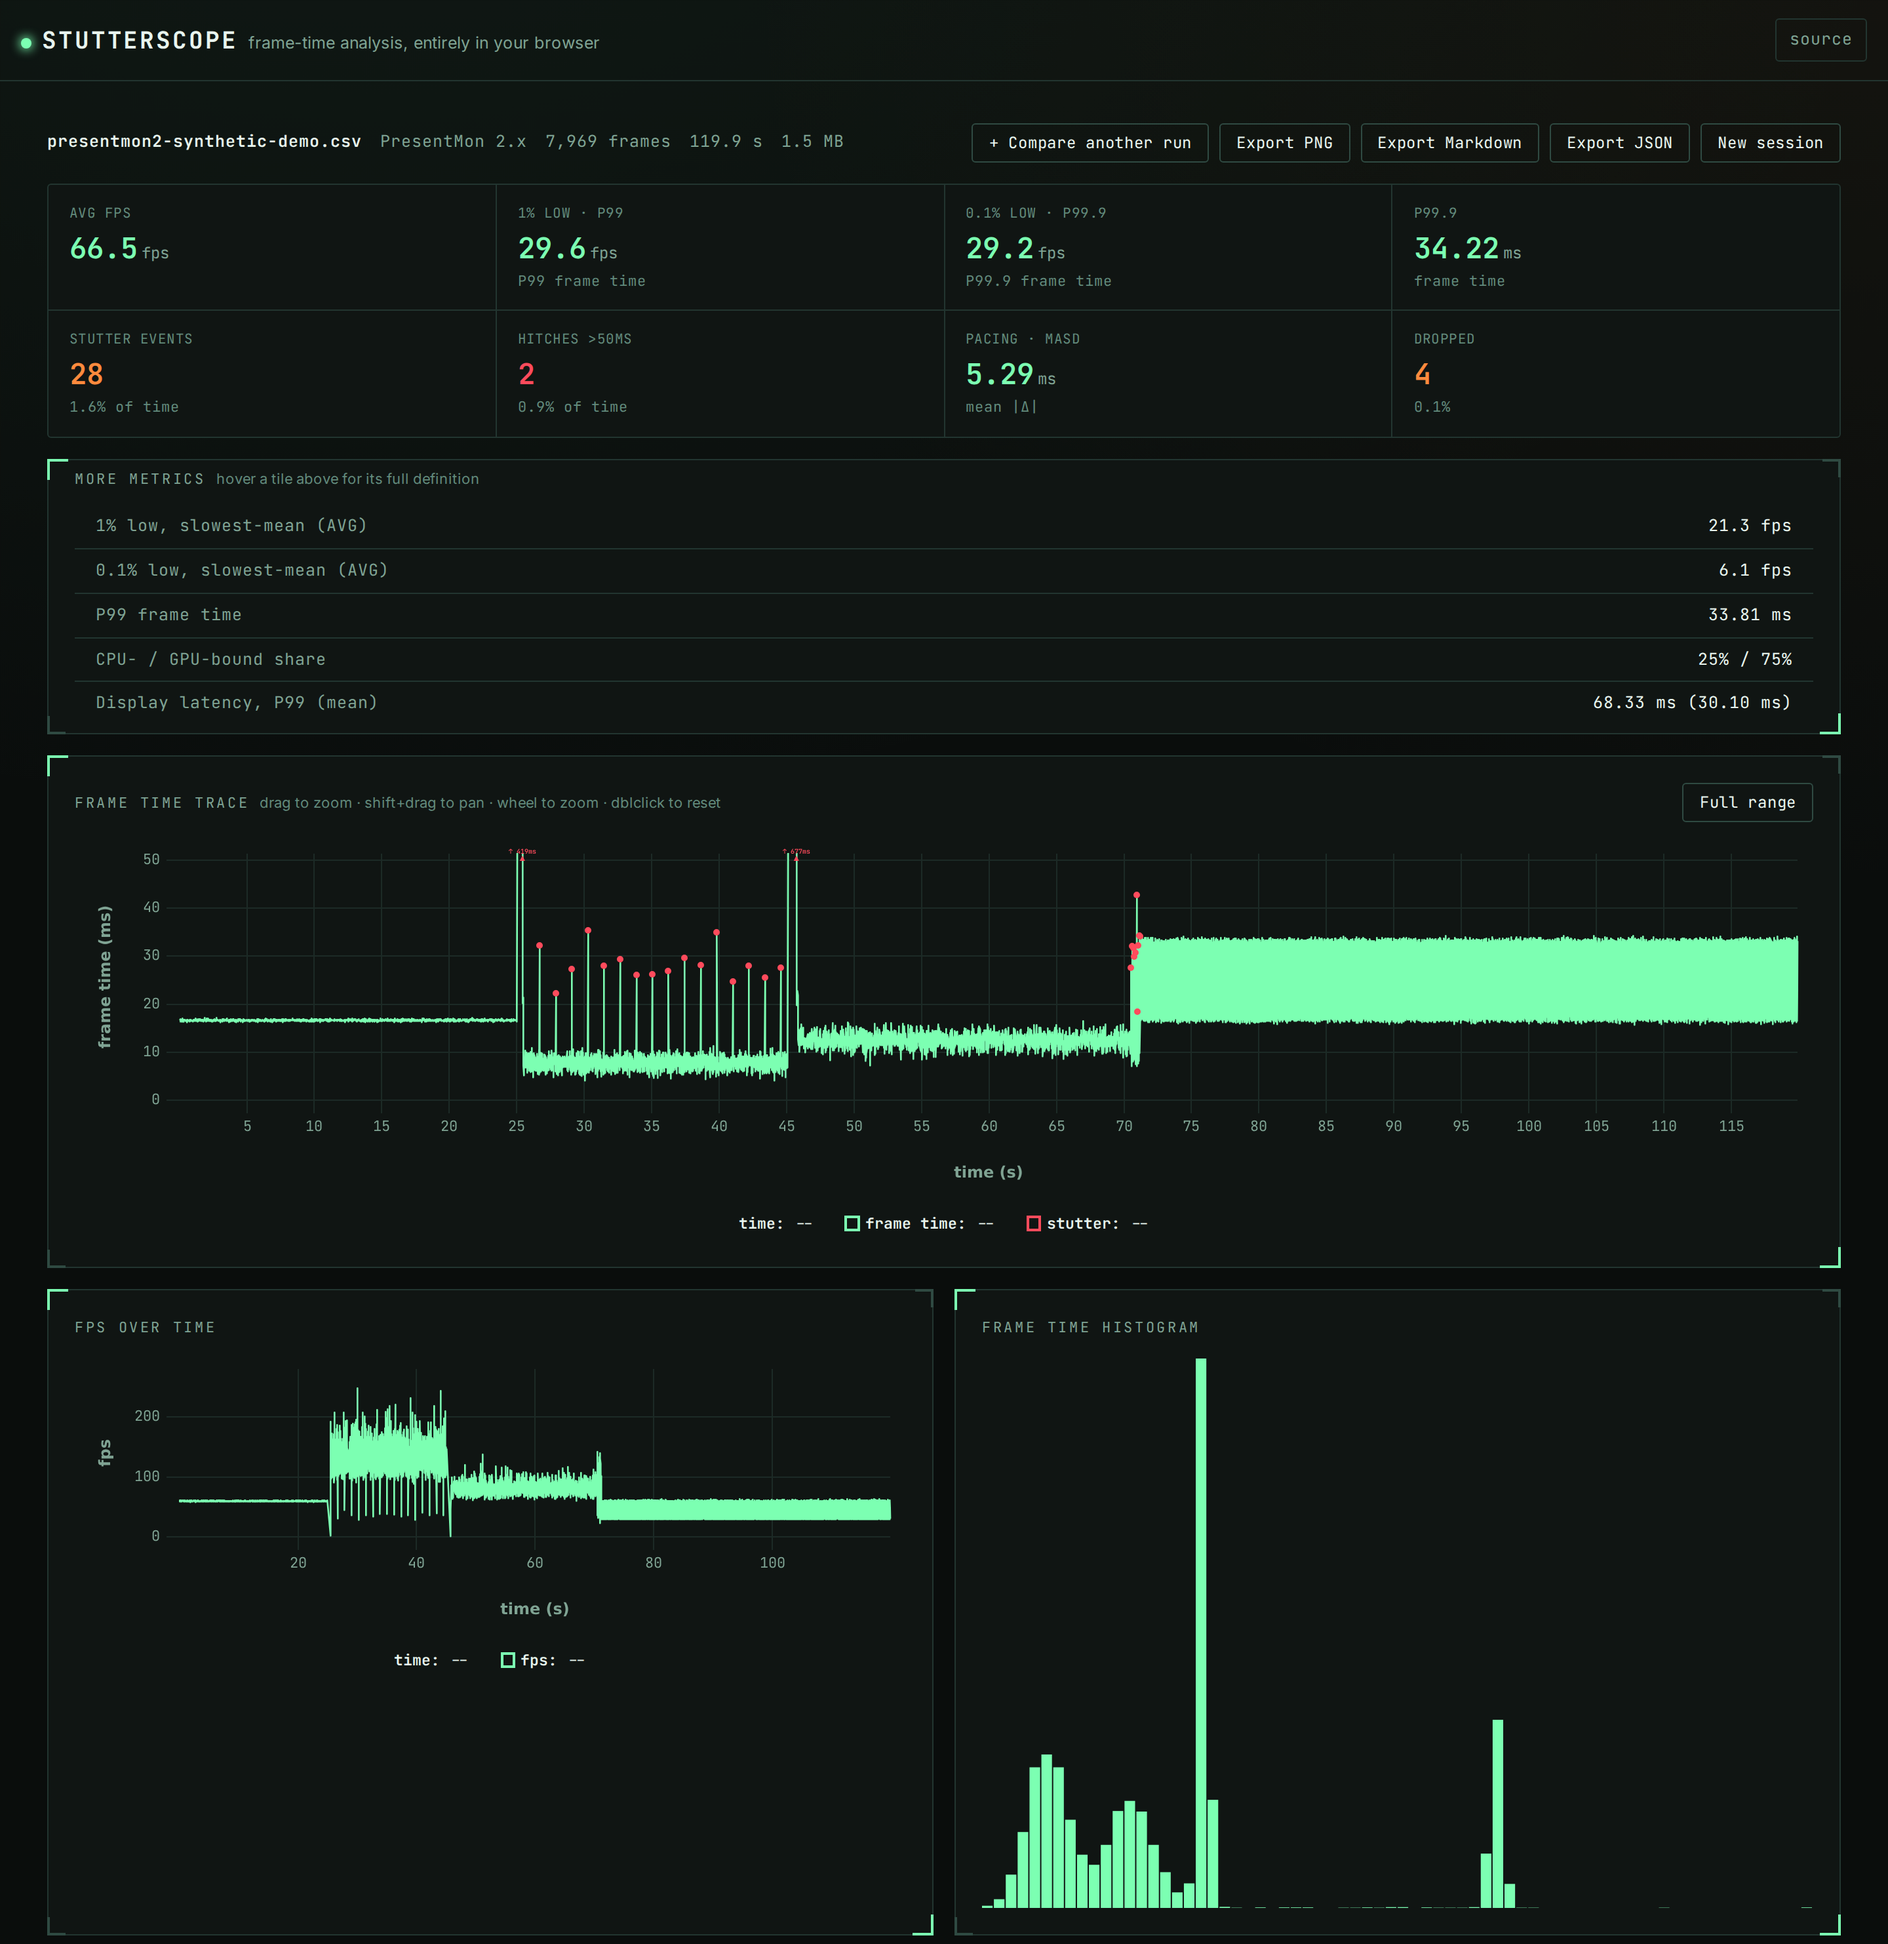
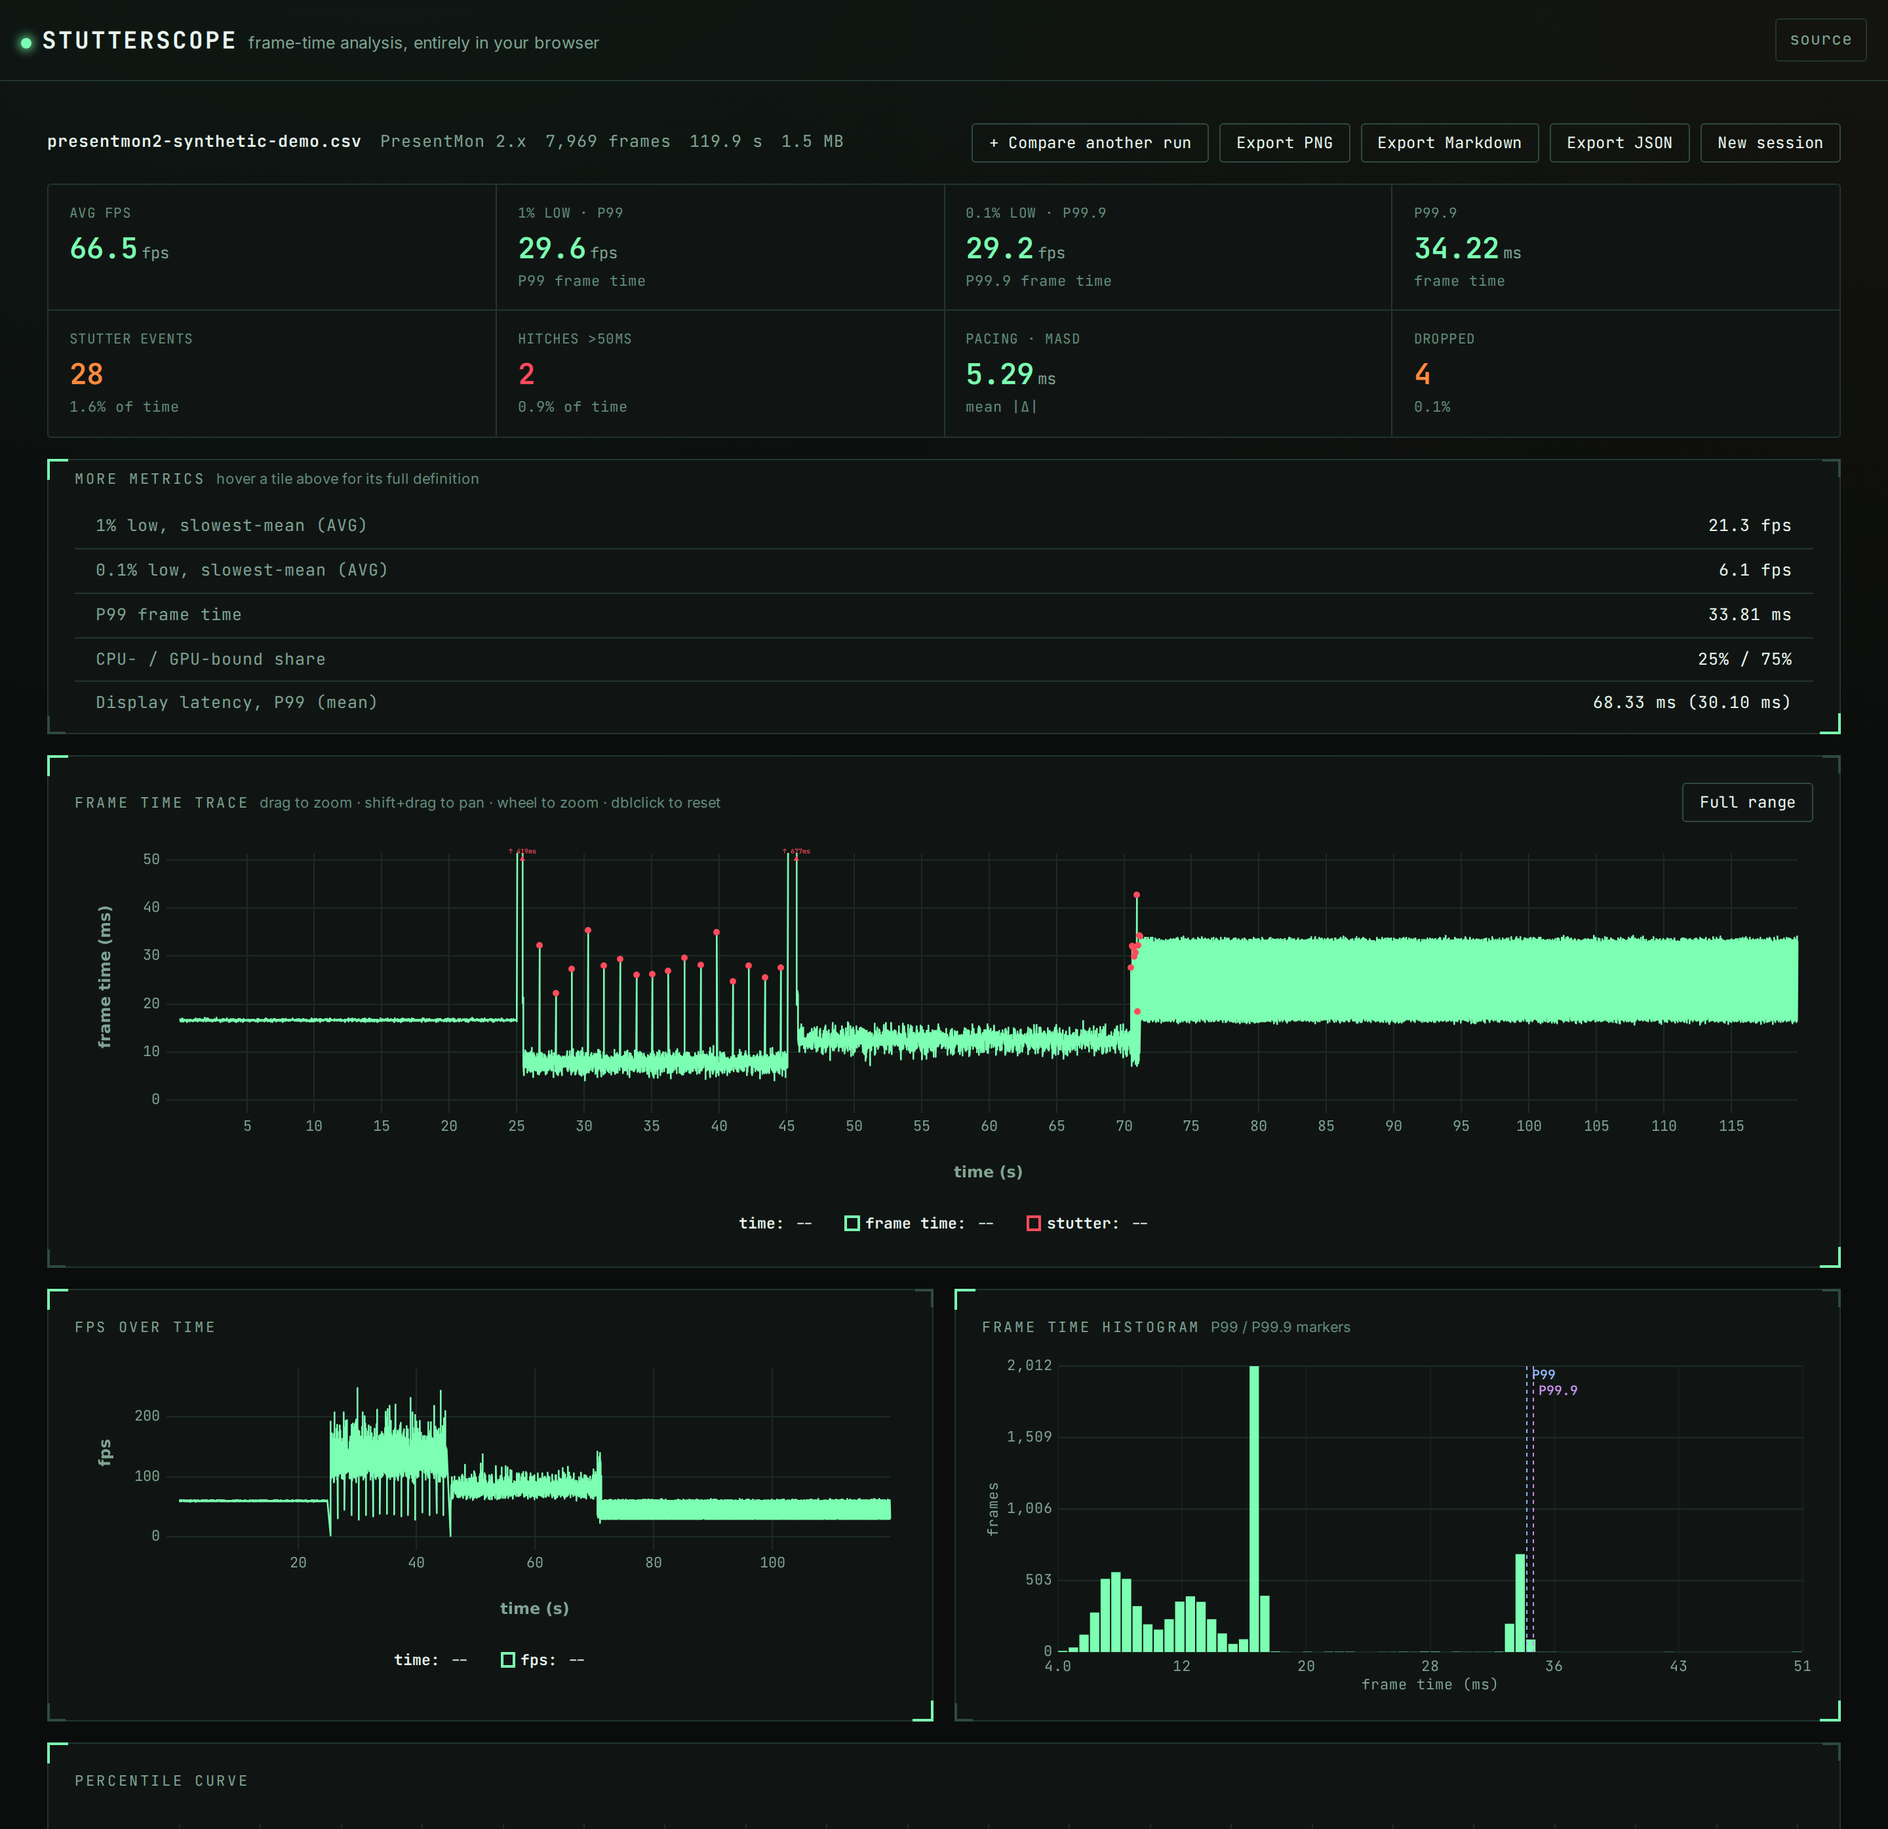
fix: labelled histogram axes with P99/P99.9 markers; align chart-row heights
The frame-time histogram had no axes at all (no ms scale, no frame count,
no titles), making it unreadable on its own. Added a shared axis-drawing
pass (gridlines, tick labels, rotated axis titles) reused by both the
single-run and comparison histogram renderers, plus dashed P99/P99.9
marker lines with stacked labels so they don't collide when the two
percentiles land close together.

Also fixed a real canvas-sizing bug this surfaced: prepareCanvas() read
canvas.clientHeight and wrote it back as canvas.height (the backing-store
property) without an independent CSS height, so each redraw's DPR-scaled
value became the next redraw's starting CSS height — a compounding loop
that had silently inflated the histogram panel far past its intended size
and, via CSS grid's row-stretch, dragged the FPS-over-time panel's empty
space along with it. Giving .histogram-canvas a fixed CSS height breaks
the loop and lets both bottom-row panels sit at their intended, matched
height. Hero screenshot retaken and reviewed.

diff --git a/src/ui/charts.ts b/src/ui/charts.ts
@@ -7,6 +7,10 @@ const TRACE_B = "#ffb454";
 const STUTTER = "#ff4b5c";
 const GRID = "#1c2a26";
 const TEXT_DIM = "#7fa393";
+// Distinct from the run-A/run-B/stutter hues above so P99/P99.9 markers
+// never get mistaken for a second run's bars in comparison mode.
+const MARKER_P99 = "#8fb8ff";
+const MARKER_P999 = "#c792ea";
 
 const baseAxis: Partial<uPlot.Axis> = {
   stroke: TEXT_DIM,
@@ -255,44 +259,180 @@ export function createPercentileChart(
   return { uplot, destroy: () => uplot.destroy() };
 }
 
-export function drawHistogram(canvas: HTMLCanvasElement, buckets: HistogramBucket[]): void {
+export interface HistogramMarkers {
+  p99?: number;
+  p999?: number;
+}
+
+const HIST_MARGIN = { left: 58, right: 8, top: 10, bottom: 32 };
+const AXIS_FONT = "11px JetBrains Mono, monospace";
+
+/** Resets a canvas's backing size for the current DPR and returns its 2D context. */
+function prepareCanvas(canvas: HTMLCanvasElement): { ctx: CanvasRenderingContext2D; w: number; h: number } {
   const dpr = window.devicePixelRatio || 1;
-  const cssWidth = canvas.clientWidth || 600;
-  const cssHeight = canvas.clientHeight || 200;
-  canvas.width = cssWidth * dpr;
-  canvas.height = cssHeight * dpr;
+  const w = canvas.clientWidth || 600;
+  const h = canvas.clientHeight || 200;
+  canvas.width = w * dpr;
+  canvas.height = h * dpr;
   const ctx = canvas.getContext("2d")!;
   ctx.setTransform(dpr, 0, 0, dpr, 0, 0);
-  ctx.clearRect(0, 0, cssWidth, cssHeight);
-  if (buckets.length === 0) return;
-  const maxCount = Math.max(...buckets.map((b) => b.count), 1);
-  const barGap = 1;
-  const barWidth = cssWidth / buckets.length;
-  ctx.fillStyle = TRACE_A;
-  buckets.forEach((b, i) => {
-    const h = (b.count / maxCount) * (cssHeight - 4);
-    ctx.fillRect(i * barWidth, cssHeight - h, Math.max(1, barWidth - barGap), h);
+  ctx.clearRect(0, 0, w, h);
+  return { ctx, w, h };
+}
+
+/** Draws the shared axis chrome (grid, ticks, labels, titles) and returns the plot-area rect. */
+function drawHistogramFrame(
+  ctx: CanvasRenderingContext2D,
+  cssWidth: number,
+  cssHeight: number,
+  minMs: number,
+  maxMs: number,
+  maxCount: number,
+): { x: number; y: number; w: number; h: number } {
+  const plot = {
+    x: HIST_MARGIN.left,
+    y: HIST_MARGIN.top,
+    w: cssWidth - HIST_MARGIN.left - HIST_MARGIN.right,
+    h: cssHeight - HIST_MARGIN.top - HIST_MARGIN.bottom,
+  };
+
+  ctx.font = AXIS_FONT;
+  ctx.strokeStyle = GRID;
+  ctx.fillStyle = TEXT_DIM;
+  ctx.lineWidth = 1;
+
+  // y-axis: 4 gridlines + count labels
+  const yTicks = 4;
+  ctx.textAlign = "right";
+  ctx.textBaseline = "middle";
+  for (let i = 0; i <= yTicks; i++) {
+    const frac = i / yTicks;
+    const y = plot.y + plot.h * (1 - frac);
+    ctx.beginPath();
+    ctx.moveTo(plot.x, y);
+    ctx.lineTo(plot.x + plot.w, y);
+    ctx.stroke();
+    ctx.fillText(Math.round(maxCount * frac).toLocaleString(), plot.x - 4, y);
+  }
+
+  // x-axis: ~6 ticks with frame-time labels
+  const xTicks = 6;
+  ctx.textAlign = "center";
+  ctx.textBaseline = "top";
+  for (let i = 0; i <= xTicks; i++) {
+    const frac = i / xTicks;
+    const ms = minMs + (maxMs - minMs) * frac;
+    const x = plot.x + plot.w * frac;
+    ctx.beginPath();
+    ctx.moveTo(x, plot.y);
+    ctx.lineTo(x, plot.y + plot.h);
+    ctx.strokeStyle = "rgba(28, 42, 38, 0.5)";
+    ctx.stroke();
+    ctx.fillText(ms.toFixed(ms < 10 ? 1 : 0), x, plot.y + plot.h + 6);
+  }
+
+  // axis titles
+  ctx.textAlign = "center";
+  ctx.fillText("frame time (ms)", plot.x + plot.w / 2, plot.y + plot.h + 20);
+  ctx.save();
+  ctx.translate(9, plot.y + plot.h / 2);
+  ctx.rotate(-Math.PI / 2);
+  ctx.textAlign = "center";
+  ctx.textBaseline = "middle";
+  ctx.fillText("frames", 0, 0);
+  ctx.restore();
+
+  return plot;
+}
+
+function drawPercentileMarkers(
+  ctx: CanvasRenderingContext2D,
+  plot: { x: number; y: number; w: number; h: number },
+  minMs: number,
+  maxMs: number,
+  markers: HistogramMarkers | undefined,
+): void {
+  if (!markers || maxMs <= minMs) return;
+  const toX = (ms: number) => plot.x + ((ms - minMs) / (maxMs - minMs)) * plot.w;
+
+  const points = (
+    [
+      markers.p99 !== undefined && markers.p99 >= minMs && markers.p99 <= maxMs
+        ? { ms: markers.p99, label: "P99", color: MARKER_P99 }
+        : null,
+      markers.p999 !== undefined && markers.p999 >= minMs && markers.p999 <= maxMs
+        ? { ms: markers.p999, label: "P99.9", color: MARKER_P999 }
+        : null,
+    ] as const
+  ).filter((p): p is { ms: number; label: string; color: string } => p !== null);
+
+  // P99 and P99.9 often sit only a few ms apart (a tight distribution) and
+  // land on nearly the same pixel column; stack their labels instead of
+  // overlapping them illegibly.
+  const closeTogether = points.length === 2 && Math.abs(toX(points[0]!.ms) - toX(points[1]!.ms)) < 40;
+
+  points.forEach((p, i) => {
+    const x = toX(p.ms);
+    ctx.save();
+    ctx.strokeStyle = p.color;
+    ctx.setLineDash([3, 3]);
+    ctx.lineWidth = 1;
+    ctx.beginPath();
+    ctx.moveTo(x, plot.y);
+    ctx.lineTo(x, plot.y + plot.h);
+    ctx.stroke();
+    ctx.setLineDash([]);
+    ctx.fillStyle = p.color;
+    ctx.font = "600 10px JetBrains Mono, monospace";
+    const nearRightEdge = x > plot.x + plot.w - 34;
+    ctx.textAlign = nearRightEdge ? "right" : "left";
+    ctx.textBaseline = "alphabetic";
+    const labelY = plot.y + 10 + (closeTogether ? i * 12 : 0);
+    ctx.fillText(p.label, x + (nearRightEdge ? -4 : 4), labelY);
+    ctx.restore();
   });
 }
 
-export function drawHistogramPair(canvas: HTMLCanvasElement, buckets: HistogramBucketPair[]): void {
-  const dpr = window.devicePixelRatio || 1;
-  const cssWidth = canvas.clientWidth || 600;
-  const cssHeight = canvas.clientHeight || 200;
-  canvas.width = cssWidth * dpr;
-  canvas.height = cssHeight * dpr;
-  const ctx = canvas.getContext("2d")!;
-  ctx.setTransform(dpr, 0, 0, dpr, 0, 0);
-  ctx.clearRect(0, 0, cssWidth, cssHeight);
+export function drawHistogram(canvas: HTMLCanvasElement, buckets: HistogramBucket[], markers?: HistogramMarkers): void {
+  const { ctx, w: cssWidth, h: cssHeight } = prepareCanvas(canvas);
+  if (buckets.length === 0) return;
+  const maxCount = Math.max(...buckets.map((b) => b.count), 1);
+  const minMs = buckets[0]!.rangeStartMs;
+  const maxMs = buckets[buckets.length - 1]!.rangeEndMs;
+  const plot = drawHistogramFrame(ctx, cssWidth, cssHeight, minMs, maxMs, maxCount);
+
+  const barGap = 1;
+  const barWidth = plot.w / buckets.length;
+  ctx.fillStyle = TRACE_A;
+  buckets.forEach((b, i) => {
+    const h = (b.count / maxCount) * plot.h;
+    ctx.fillRect(plot.x + i * barWidth, plot.y + plot.h - h, Math.max(1, barWidth - barGap), h);
+  });
+
+  drawPercentileMarkers(ctx, plot, minMs, maxMs, markers);
+}
+
+export function drawHistogramPair(
+  canvas: HTMLCanvasElement,
+  buckets: HistogramBucketPair[],
+  markers?: HistogramMarkers,
+): void {
+  const { ctx, w: cssWidth, h: cssHeight } = prepareCanvas(canvas);
   if (buckets.length === 0) return;
   const maxCount = Math.max(...buckets.map((b) => Math.max(b.countA, b.countB)), 1);
-  const barWidth = cssWidth / buckets.length;
+  const minMs = buckets[0]!.rangeStartMs;
+  const maxMs = buckets[buckets.length - 1]!.rangeEndMs;
+  const plot = drawHistogramFrame(ctx, cssWidth, cssHeight, minMs, maxMs, maxCount);
+
+  const barWidth = plot.w / buckets.length;
   buckets.forEach((b, i) => {
-    const hA = (b.countA / maxCount) * (cssHeight - 4);
-    const hB = (b.countB / maxCount) * (cssHeight - 4);
+    const hA = (b.countA / maxCount) * plot.h;
+    const hB = (b.countB / maxCount) * plot.h;
     ctx.fillStyle = TRACE_A + "aa";
-    ctx.fillRect(i * barWidth, cssHeight - hA, Math.max(1, barWidth / 2 - 1), hA);
+    ctx.fillRect(plot.x + i * barWidth, plot.y + plot.h - hA, Math.max(1, barWidth / 2 - 1), hA);
     ctx.fillStyle = TRACE_B + "aa";
-    ctx.fillRect(i * barWidth + barWidth / 2, cssHeight - hB, Math.max(1, barWidth / 2 - 1), hB);
+    ctx.fillRect(plot.x + i * barWidth + barWidth / 2, plot.y + plot.h - hB, Math.max(1, barWidth / 2 - 1), hB);
   });
+
+  drawPercentileMarkers(ctx, plot, minMs, maxMs, markers);
 }

diff --git a/src/ui/main.ts b/src/ui/main.ts
@@ -251,8 +251,8 @@ function renderWorkspace(): void {
         </div>
         <div class="bracket-panel chart-panel">
           <span class="bracket-tl"></span><span class="bracket-tr"></span>
-          <p class="panel-label">Frame Time Histogram${hasB ? ' <span class="hint">A = green, B = amber</span>' : ""}</p>
-          <canvas id="histogram-canvas" class="histogram-canvas" height="200" role="img" aria-label="Frame time distribution histogram"></canvas>
+          <p class="panel-label">Frame Time Histogram <span class="hint">${hasB ? "A = green, B = amber &middot; " : ""}P99 / P99.9 markers</span></p>
+          <canvas id="histogram-canvas" class="histogram-canvas" role="img" aria-label="Frame time distribution histogram"></canvas>
         </div>
       </div>
 
@@ -284,14 +284,15 @@ function renderWorkspace(): void {
   a.traceHandle = createTraceChart(document.getElementById("trace-chart")!, a.response.series.timeSec, a.response.series.frameTimeMs, a.response.chart.isStutter);
   a.fpsHandle = createFpsChart(document.getElementById("fps-chart")!, a.response.series.timeSec, a.response.series.frameTimeMs);
 
+  const markers = { p99: a.response.summary.percentilesMs.p99, p999: a.response.summary.percentilesMs.p999 };
   if (hasB && runs.b) {
     createPercentileChart(document.getElementById("percentile-chart")!, a.response.chart.percentileCurve, runs.b.response.chart.percentileCurve);
     const pair = frameTimeHistogramPair(a.response.series.frameTimeMs, runs.b.response.series.frameTimeMs, 60);
-    drawHistogramPair(document.getElementById("histogram-canvas") as HTMLCanvasElement, pair);
+    drawHistogramPair(document.getElementById("histogram-canvas") as HTMLCanvasElement, pair, markers);
     renderComparisonTable(a, runs.b);
   } else {
     createPercentileChart(document.getElementById("percentile-chart")!, a.response.chart.percentileCurve);
-    drawHistogram(document.getElementById("histogram-canvas") as HTMLCanvasElement, a.response.chart.histogram);
+    drawHistogram(document.getElementById("histogram-canvas") as HTMLCanvasElement, a.response.chart.histogram, markers);
   }
 
   wireWorkspaceControls();

diff --git a/src/ui/style.css b/src/ui/style.css
@@ -555,6 +555,7 @@ input[type="file"] {
 .histogram-canvas,
 .chart-canvas {
   width: 100%;
+  height: 260px;
   display: block;
 }
 
